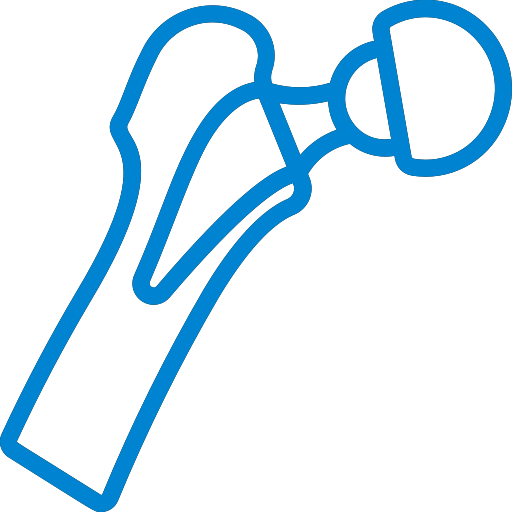
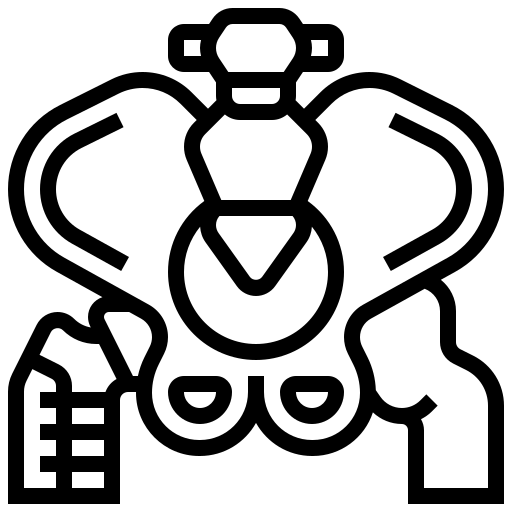
after end subcategories

diff --git a/Front-End-React/src/features/SubCategories/pages/SubCategoriesPage.jsx b/Front-End-React/src/features/SubCategories/pages/SubCategoriesPage.jsx
@@ -27,9 +27,12 @@ import DeleteConfirmModal from "../../../components/utility/DeleteConfirmModal";
 
 // Components
 import SubCategoriesTable from "../components/common/SubCategoriesTable";
+import ProductImageUpload from "../../products/components/utility/ProductImageUpload";
 
 const SubCategoriesPage = () => {
   const [searchParams, setSearchParams] = useSearchParams();
+  const [selectedImage, setSelectedImage] = useState(null);
+  const [removeExistingImage, setRemoveExistingImage] = useState(false);
 
   // ==================================================
   // Search State
@@ -150,6 +153,9 @@ const SubCategoriesPage = () => {
     setSelectedEditSubCategory(subcategory);
     setFormErrors({});
 
+    setSelectedImage(null);
+    setRemoveExistingImage(false);
+
     setEditForm({
       name: subcategory.name ?? "",
       description: subcategory.description || "",
@@ -163,6 +169,8 @@ const SubCategoriesPage = () => {
 
     setSelectedEditSubCategory(null);
     setFormErrors({});
+    setSelectedImage(null);
+    setRemoveExistingImage(false);
 
     setEditForm({
       name: "",
@@ -185,9 +193,7 @@ const SubCategoriesPage = () => {
   };
 
   const handleUpdateSubCategory = async () => {
-    if (!selectedEditSubCategory) {
-      return;
-    }
+    if (!selectedEditSubCategory || isUpdating) return;
 
     const payload = {
       name: editForm.name.trim(),
@@ -197,41 +203,82 @@ const SubCategoriesPage = () => {
     // Validation
     const errors = {};
 
-    if (!payload.name) errors.name = "The Name Field is Required";
-    if (!payload.description)
+    if (!payload.name) {
+      errors.name = "The Name Field is Required";
+    }
+
+    if (!payload.description) {
       errors.description = "The Description Field is Required";
+    }
 
     if (Object.keys(errors).length > 0) {
       setFormErrors(errors);
       return;
     }
 
-    // No real changes
+    // Check for changes
     const hasChanges =
       payload.name !== (selectedEditSubCategory.name ?? "") ||
-      payload.description !== (selectedEditSubCategory.description ?? "");
+      payload.description !== (selectedEditSubCategory.description ?? "") ||
+      Boolean(selectedImage) ||
+      removeExistingImage;
 
     if (!hasChanges) {
-      setSelectedEditSubCategory(null);
-      setFormErrors({});
-      setEditForm({ name: "", description: "" });
+      handleCloseEditModal();
       return;
     }
 
-    // Update
     try {
+      const formData = new FormData();
+
+      formData.append("name", payload.name);
+      formData.append("description", payload.description);
+
+      // Upload a new image if selected
+      if (selectedImage) {
+        formData.append("image", selectedImage);
+      }
+
+      // Remove existing image if requested
+      formData.append(
+        "remove_image",
+        removeExistingImage && !selectedImage ? "1" : "0",
+      );
+
+      // Laravel method spoofing
+      formData.append("_method", "PUT");
+
       await updateSubCategory({
         id: selectedEditSubCategory.id,
-        data: payload,
+        data: formData,
       }).unwrap();
 
       setSelectedEditSubCategory(null);
       setFormErrors({});
-      setEditForm({ name: "", description: "", type: "" });
+      setSelectedImage(null);
+      setRemoveExistingImage(false);
+
+      setEditForm({
+        name: "",
+        description: "",
+      });
 
       notifySonner("SubCategory Updated Successfully");
     } catch (error) {
       console.error("Failed to Update SubCategory:", error);
+
+      // Laravel validation errors
+      if (error?.status === 422 && error?.data?.errors) {
+        const validationErrors = {};
+
+        Object.entries(error.data.errors).forEach(([field, messages]) => {
+          validationErrors[field] = Array.isArray(messages)
+            ? messages[0]
+            : messages;
+        });
+
+        setFormErrors(validationErrors);
+      }
 
       notifySonner(
         error?.data?.message || "Failed to Update SubCategory",
@@ -571,6 +618,32 @@ const SubCategoriesPage = () => {
               {formErrors.description}
             </p>
           )}
+        </div>
+
+        {/* ==================================================
+                    SubCategory Image
+                ================================================== */}
+        <div className="">
+          <label className="text-sm font-semibold text-slate-200">
+            SubCategory Image
+          </label>
+
+          <ProductImageUpload
+            key={selectedEditSubCategory?.id}
+            initialImageUrl={selectedEditSubCategory?.image_url ?? ""}
+            disabled={isUpdating}
+            onChange={(file) => {
+              setSelectedImage(file);
+
+              if (file) {
+                setRemoveExistingImage(false);
+              }
+            }}
+            onRemove={() => {
+              setSelectedImage(null);
+              setRemoveExistingImage(true);
+            }}
+          />
         </div>
       </EditModal>
     </Card>

diff --git a/Front-End-React/src/features/SubCategories/pages/CreateSubCategoryPage.jsx b/Front-End-React/src/features/SubCategories/pages/CreateSubCategoryPage.jsx
@@ -6,11 +6,17 @@ import { notifySonner } from "../../../lib/notifySonner";
 import { useState } from "react";
 import { useAddSubCategoryMutation } from "../SubCategoriesApiSlice";
 
+// Utility Component
+import ProductImageUpload from "../../products/components/utility/ProductImageUpload";
+
 const CreateSubCategoryPage = () => {
   const [createForm, setCreateForm] = useState({
     name: "",
     description: "",
   });
+
+  const [subCategoryImage, setSubCategoryImage] = useState(null);
+  const [imageResetKey, setImageResetKey] = useState(0);
 
   const [addSubCategory, { isLoading: isCreating }] =
     useAddSubCategoryMutation();
@@ -27,12 +33,26 @@ const CreateSubCategoryPage = () => {
   const handleSubmitCategory = async (e) => {
     e.preventDefault();
 
+    const formData = new FormData();
+    formData.append("name", createForm.name.trim());
+    formData.append("description", createForm.description.trim());
+
+    if (subCategoryImage) {
+      formData.append("image", subCategoryImage);
+    }
+
     try {
-      await addSubCategory(createForm).unwrap();
+      await addSubCategory(formData).unwrap();
+
+      setSubCategoryImage(null);
+
+      // Reset ProductImageUpload
+      setImageResetKey((prev) => prev + 1);
 
       setCreateForm({
         name: "",
         description: "",
+        image_url: "",
       });
 
       notifySonner("SubCategory Added Successfully");
@@ -63,6 +83,13 @@ const CreateSubCategoryPage = () => {
 
             <Box className="max-w-full border border-slate-200 shadow-lg rounded-2xl p-5 ">
               <Form.Root className="w-full" onSubmit={handleSubmitCategory}>
+                <ProductImageUpload
+                  key={imageResetKey}
+                  onChange={setSubCategoryImage}
+                  title="SubCategory Image"
+                  subTitle="Upload an image for your SubCategory."
+                />
+
                 <div className="grid sm:grid-cols-1 md:grid-cols-2 gap-4">
                   {/* =========== SubCategory Name =========== */}
                   <Form.Field className="mb-2.5 grid" name="name">

diff --git a/Front-End-React/src/features/Products/pages/CreateProductPage.jsx b/Front-End-React/src/features/Products/pages/CreateProductPage.jsx
@@ -37,7 +37,7 @@ const CreateProductPage = () => {
   const [addProduct, { isLoading: isCreating }] = useAddProductMutation();
 
   const [productImage, setProductImage] = useState(null);
-
+  const [imageResetKey, setImageResetKey] = useState(0);
   // ==================================================
   // Subcategories
   // ==================================================
@@ -120,6 +120,9 @@ const CreateProductPage = () => {
       await addProduct(formData).unwrap();
 
       setProductImage(null);
+      
+      // Reset ProductImageUpload
+      setImageResetKey((prev) => prev + 1);
 
       setCreateForm({
         code: "",
@@ -159,6 +162,7 @@ const CreateProductPage = () => {
             <Box className="max-w-full border border-slate-200 shadow-lg rounded-2xl p-5 ">
               <Form.Root className="w-full" onSubmit={handleSubmitProduct}>
                 <ProductImageUpload
+                  key={imageResetKey}
                   onChange={setProductImage}
                   title="Product Image"
                   subTitle="Upload an image for your product."

diff --git a/Front-End-React/src/features/SubCategories/SubCategoriesApiSlice.js b/Front-End-React/src/features/SubCategories/SubCategoriesApiSlice.js
@@ -36,10 +36,10 @@ export const SubCategoriesApiSlice = baseApi.injectEndpoints({
     }),
 
     addSubCategory: builder.mutation({
-      query: (subcategoryData) => ({
+      query: (formData) => ({
         url: "/subcategories",
         method: "POST",
-        body: subcategoryData,
+        body: formData,
       }),
       invalidatesTags: (result, error, arg) => [
         { type: "SubCategories", id: "subcategory_id" },

diff --git a/Front-End-React/src/components/home/ProductSubCategoriesGrid.jsx b/Front-End-React/src/components/home/ProductSubCategoriesGrid.jsx
@@ -3,6 +3,7 @@ import { Link } from "react-router";
 import { motion } from "motion/react";
 
 const ProductSubCategoriesGrid = ({ subCategories = [] }) => {
+  console.log("subCategories", subCategories);
   return (
     <section className="py-20 bg-slate-50 border-y border-slate-200/60">
       <div className="max-w-7xl mx-auto px-4 sm:px-6 lg:px-8">

diff --git a/Back-End-Laravel/app/Http/Controllers/SubCategoryController.php b/Back-End-Laravel/app/Http/Controllers/SubCategoryController.php
@@ -9,6 +9,7 @@ use App\Models\SubCategory;
 use App\Traits\ApiResponse;
 use Illuminate\Http\JsonResponse;
 use Illuminate\Http\Request;
+use Illuminate\Support\Facades\Storage;
 
 class SubCategoryController extends Controller
 {
@@ -46,15 +47,20 @@ class SubCategoryController extends Controller
     {
         $validated = $request->validated();
 
+        // Remove the uploaded file from the subcategory attributes.
+        unset($validated['image']);
+
+        // Store the image and save its relative path in the database.
         if ($request->hasFile('image')) {
-            $validated['image'] = $request
-                ->file('image')
+            $validated['image_url'] = $request->file('image')
                 ->store('subcategories', 'public');
         }
 
         $subCategory = SubCategory::create($validated);
 
-        return self::created($subCategory);
+        return self::created(
+            new SubCategoryResource($subCategory)
+        );
     }
 
     public function show(SubCategory $subcategory): JsonResponse
@@ -64,9 +70,45 @@ class SubCategoryController extends Controller
 
     public function update(UpdateSubCategoryRequest $request, SubCategory $subcategory): JsonResponse
     {
-        $subcategory->update($request->validated());
+      $validated = $request->validated();
 
-        return self::updated($subcategory);
+        // الاحتفاظ بالمسار الأصلي من قاعدة البيانات
+        $oldImagePath = $subcategory->getRawOriginal('image_url');
+
+        // هذه الحقول ليست أعمدة نريد تحديثها مباشرة
+        unset($validated['image'], $validated['remove_image']);
+
+        $newImagePath = null;
+        $hasNewImage = $request->hasFile('image');
+        $shouldRemoveImage = $request->boolean('remove_image');
+
+        // عند رفع صورة جديدة، حفظها في مجلد subcategories
+        if ($hasNewImage) {
+            $newImagePath = $request->file('image')->store(
+                'subcategories',
+                'public'
+            );
+
+            $validated['image_url'] = $newImagePath;
+        } elseif ($shouldRemoveImage) {
+            // حذف الصورة من سجل الفئة الفرعية عند طلب الإزالة
+            $validated['image_url'] = null;
+        }
+
+        // تحديث بيانات الفئة الفرعية
+        $subcategory->update($validated);
+
+        // حذف الصورة القديمة بعد نجاح تحديث سجل الفئة الفرعية
+        if (
+            $oldImagePath &&
+            ($hasNewImage || $shouldRemoveImage)
+        ) {
+            Storage::disk('public')->delete($oldImagePath);
+        }
+
+        return self::updated(
+            new SubCategoryResource($subcategory)
+        );
     }
 
     public function destroy(SubCategory $subcategory)

diff --git a/Back-End-Laravel/app/Http/Requests/StoreSubCategoryRequest.php b/Back-End-Laravel/app/Http/Requests/StoreSubCategoryRequest.php
@@ -16,7 +16,14 @@ class StoreSubCategoryRequest extends FormRequest
         return [
             'name' => ['required', 'string', 'max:255', 'unique:subcategories,name'],
             'description' => ['nullable', 'string'],
-            'image' => 'nullable|image|mimes:jpg,jpeg,png,webp|max:2048',
+            'image' => [
+                'nullable',
+                'image',
+                'mimes:jpg,jpeg,png,webp',
+                'max:5120',
+            ],
+
+            'remove_image' => ['sometimes', 'boolean'],
         ];
     }
 }

diff --git a/Back-End-Laravel/app/Http/Requests/UpdateSubCategoryRequest.php b/Back-End-Laravel/app/Http/Requests/UpdateSubCategoryRequest.php
@@ -16,7 +16,14 @@ class UpdateSubCategoryRequest extends FormRequest
         return [
             'name' => ['sometimes', 'required', 'string', 'max:255'],
             'description' => ['nullable', 'string'],
-            'image' => 'nullable|image|mimes:jpg,jpeg,png,webp|max:2048',
+            'image' => [
+                'nullable',
+                'image',
+                'mimes:jpg,jpeg,png,webp',
+                'max:5120',
+            ],
+
+            'remove_image' => ['sometimes', 'boolean'],
         ];
     }
 }
